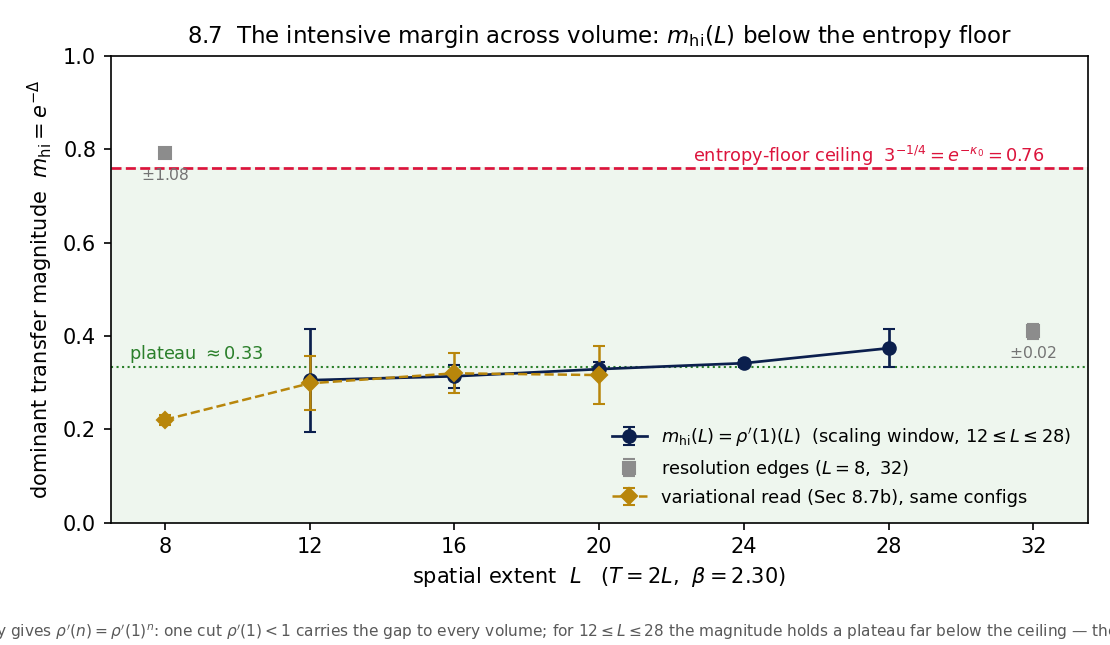
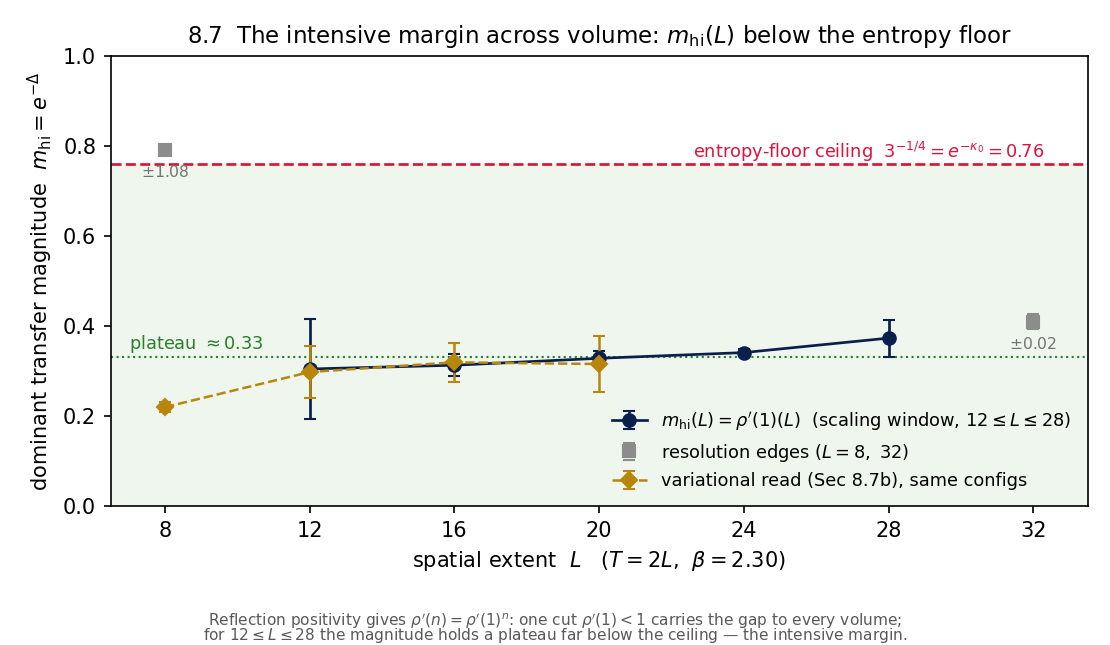
cleanup

diff --git a/research/data/8_7_fig_mhi_lscan.py b/research/data/8_7_fig_mhi_lscan.py
@@ -100,11 +100,14 @@ ax.set_xlim(6.5, Lmax + 1.5)
 ax.set_ylim(0, 1.0)
 ax.set_xticks(sorted(int(x) for x in L))
 ax.legend(fontsize=8.5, frameon=False, loc='lower right')
-fig.text(0.5, 0.012,
-         r"Reflection positivity gives $\rho'(n)=\rho'(1)^n$: one cut $\rho'(1)<1$ carries the gap to every volume; "
+# two lines: the one-line form is wider than the canvas and clips at both edges
+fig.text(0.5, 0.030,
+         r"Reflection positivity gives $\rho'(n)=\rho'(1)^n$: one cut $\rho'(1)<1$ carries the gap to every volume;",
+         fontsize=7.4, color='0.35', ha='center')
+fig.text(0.5, 0.008,
          r"for $12\leq L\leq 28$ the magnitude holds a plateau far below the ceiling — the intensive margin.",
          fontsize=7.4, color='0.35', ha='center')
-fig.tight_layout(rect=[0, 0.045, 1, 1])
+fig.tight_layout(rect=[0, 0.070, 1, 1])
 out = os.path.join(here, '8_7_fig_mhi_lscan.png')
 fig.savefig(out, dpi=150)
 print('wrote', out, '| L =', list(int(x) for x in L), '| m_hi =', [round(float(x), 3) for x in mhi],

diff --git a/README.md b/README.md
@@ -3,6 +3,7 @@
 [![License](https://img.shields.io/badge/license-Apache%202.0-blue)](LICENSE)
 [![PyPI](https://img.shields.io/pypi/v/entroptics?logo=pypi&logoColor=white&label=entroptics)](https://pypi.org/project/entroptics/)
 [![Verified](https://img.shields.io/badge/verified-Lean%204%20%2F%20Mathlib-4B0082)](research/lean)
+[![Paper](https://img.shields.io/badge/paper-PDF-b31b1b)](research/PAPER.pdf)
 [![DOI](https://zenodo.org/badge/1342269699.svg)](https://zenodo.org/badge/latestdoi/1342269699)
 [![Sponsor](https://img.shields.io/badge/Sponsor-Agience-EA4AAA?logo=githubsponsors&logoColor=white)](https://github.com/sponsors/Agience)
 
@@ -38,7 +39,7 @@ cited theorem: it is discharged by measurement rather than by proof. Conditioned
 follows with reflection positivity as the only structural input.
 
 The confinement read is measured on lattice ensembles and certified at **99.9999%** per coupling (a rigorous empirical-Bernstein
-bound). The paper (`research/PAPER.md`) develops the theorem and the method; the reads run through the Entroptics
+bound). The paper ([`research/PAPER.pdf`](research/PAPER.pdf)) develops the theorem and the method; the reads run through the Entroptics
 reader (`research/code/`); the Lean 4 / Mathlib development (`research/lean/`) is the verification — `sorry`-free, on
 the three foundational axioms plus the named inputs.
 
@@ -55,7 +56,8 @@ paper (§13).
 
 | path | what |
 |---|---|
-| [`research/PAPER.md`](research/PAPER.md) | the paper |
+| [`research/PAPER.pdf`](research/PAPER.pdf) | the paper, typeset |
+| [`research/PAPER.md`](research/PAPER.md) | the same text in markdown |
 | [`research/lean/`](research/lean) | the Lean 4 / Mathlib development (`MassGap.*`), `sorry`-free |
 | [`research/data/`](research/data) | analysis and figure scripts that read the frozen ensembles, and `regen_all.py`, which drives them |
 | [`research/code/`](research/code) | the Entroptics wrapper + certification code |
